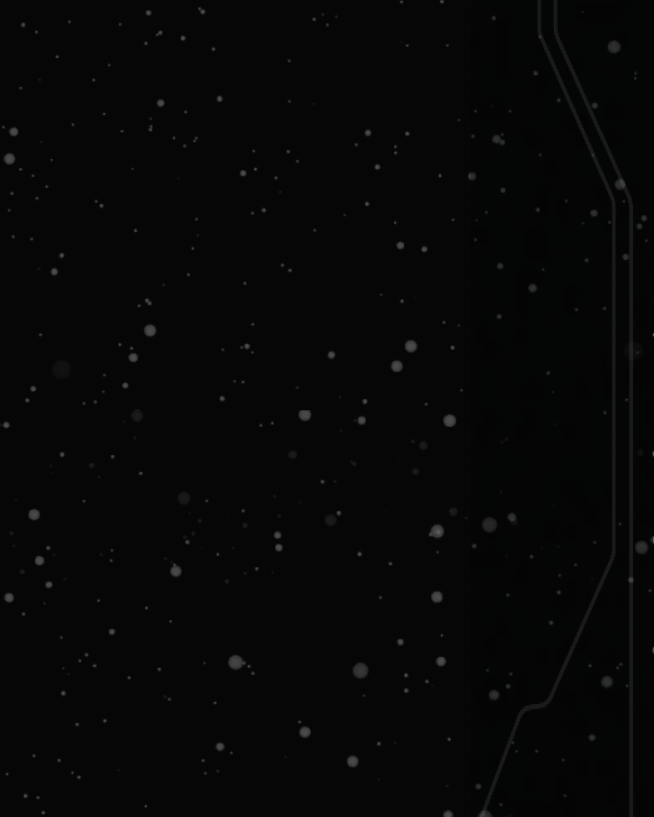
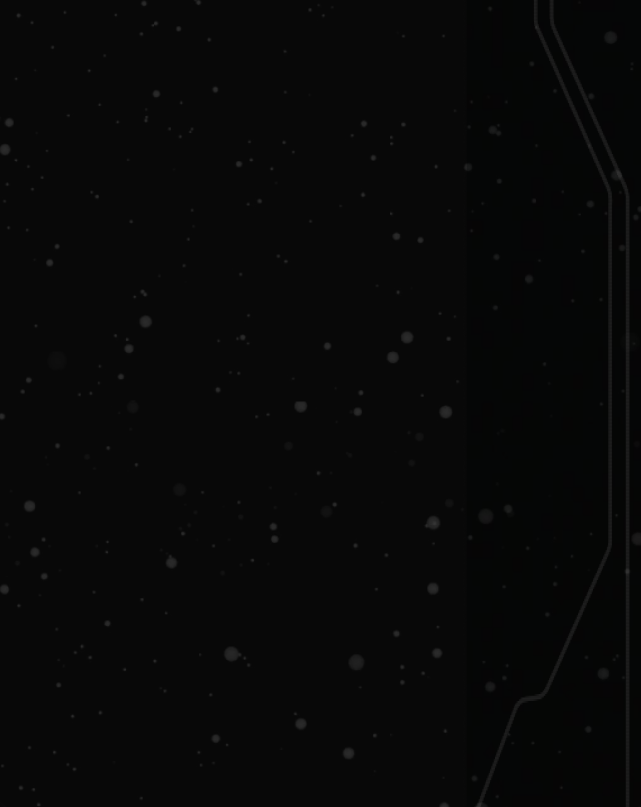
dome some minor update on planet cards, text sizes , responsive issues, made minor changes in the design

diff --git a/src/sections/description/DescriptionSection.jsx b/src/sections/description/DescriptionSection.jsx
@@ -3,19 +3,17 @@ import './descriptionSection.css'
 
 function DescriptionSection() {
     return (
-        <div className='descrption-section m flex justify-center items-center flex-col'>
-            <div className="sec-1"> <h1 className='descrip-1 text-white'>Discover The Star Wars <br /> Universe.</h1></div>
+        <div className='descrption-section m flex justify-center flex-col'>
+            <div className="sec-1 "> <h1 className='descrip-1 text-white'>Discover The Star Wars <br /> Universe.</h1></div>
             <div className="sec-2-main flex">
-                <div className="sec-sub-3">
-                    <img src="../../../images/violetplanet.png" alt="" />
-                </div>
+
                 <div className="sec-sub-1">
-                    <h1 className='descrip-2 text-xl p-[5vw] mx-[1vw] lg:px-[5vw] lg:mx-[2vw] '>Welcome to our interactive planets directory! Dive into the fascinating world of Star Wars and discover
+                    <h1 className='descrip-2 text-3xl p-[4vw] mx-[1vw] lg:px-[5vw] lg:mx-[2vw] '>Welcome to our interactive planets directory! Dive into the fascinating world of Star Wars and discover
                         detailed information about each planet, including its climate, population, and terrain. Journey through the galaxy as you learn about
                         the diverse environments that shape the Star Wars universe.</h1>
                 </div>
                 <div className="sec-sub-2">
-                    <img className=' lg:w-[100vw]' src="../../../images/sateliteship.png" alt="" />
+                    <img className='sateliteship lg:w-[100vw]' src="../../../images/sateliteship.png" alt="" />
                 </div>
 
             </div>

diff --git a/src/components/planetCards/planetCards.css b/src/components/planetCards/planetCards.css
@@ -5,16 +5,16 @@
 
 .card {
     background-image: url('../../../public/images/card-background.png');
-    background-size: contain;
+    background-size: 100% 100%;
     display: flex;
-    box-shadow: 3px 3px 20px 5px rgba(51, 51, 51, 0.25);
+    box-shadow: 5px 5px 20px 5px rgba(51, 51, 51, 0.25);
     border-radius: 20px;
     font-family: 'star Wars megatrans JP';
 }
 
 img {
-    height: 80%;
-
+    width: 114px;
+    height: 400px
 }
 
 p {
@@ -23,8 +23,11 @@ p {
 }
 
 .card-image {
-    flex: 1;
-    max-width: 33.33%;
+    display: flex;
+    justify-content: center;
+    align-items: center;
+    /* flex: 1; */
+    /* max-width: 33.33%; */
     /* 1/3 of the card width */
     padding-top: 1rem;
     padding-bottom: 1rem;
@@ -32,10 +35,10 @@ p {
     /* Example padding */
 }
 
-.card-image img {
+/* .card-image img {
     max-width: 100%;
     height: auto;
-}
+} */
 
 .card-content {
     flex: 2;

diff --git a/src/sections/description/descriptionSection.css b/src/sections/description/descriptionSection.css
@@ -10,12 +10,38 @@
 
 .descrip-1 {
     font-family: 'star Wars Fira JP';
-    font-size: 4vw;
-    letter-spacing: 1vw;
+    font-size: 4.3vw;
+    letter-spacing: 0.5vw;
+    margin-left: 80px;
 }
 
 .descrip-2 {
     font-family: 'star wars megatrans';
-    font-size: 2vw;
+    font-size: 2.7vw;
+    line-height: 2.5rem;
     color: rgb(251, 221, 45);
+}
+
+.sateliteship {
+
+    opacity: 0.4;
+}
+
+@media (max-width: 600px) {
+    .sateliteship {
+        width: 70vw;
+        height: 200px;
+
+    }
+
+    .descrip-1 {
+        font-size: 3vw;
+        margin-left: 25px;
+    }
+
+    .descrip-2 {
+        font-size: 2vw;
+        line-height: 1.5rem;
+
+    }
 }

diff --git a/src/sections/header/headerSection.css b/src/sections/header/headerSection.css
@@ -21,6 +21,7 @@ h1 {
 
     .star-wars-logo {
         width: 30vw;
+        height: 80%;
         padding-top: 1rem;
         padding-bottom: 3rem;
     }
